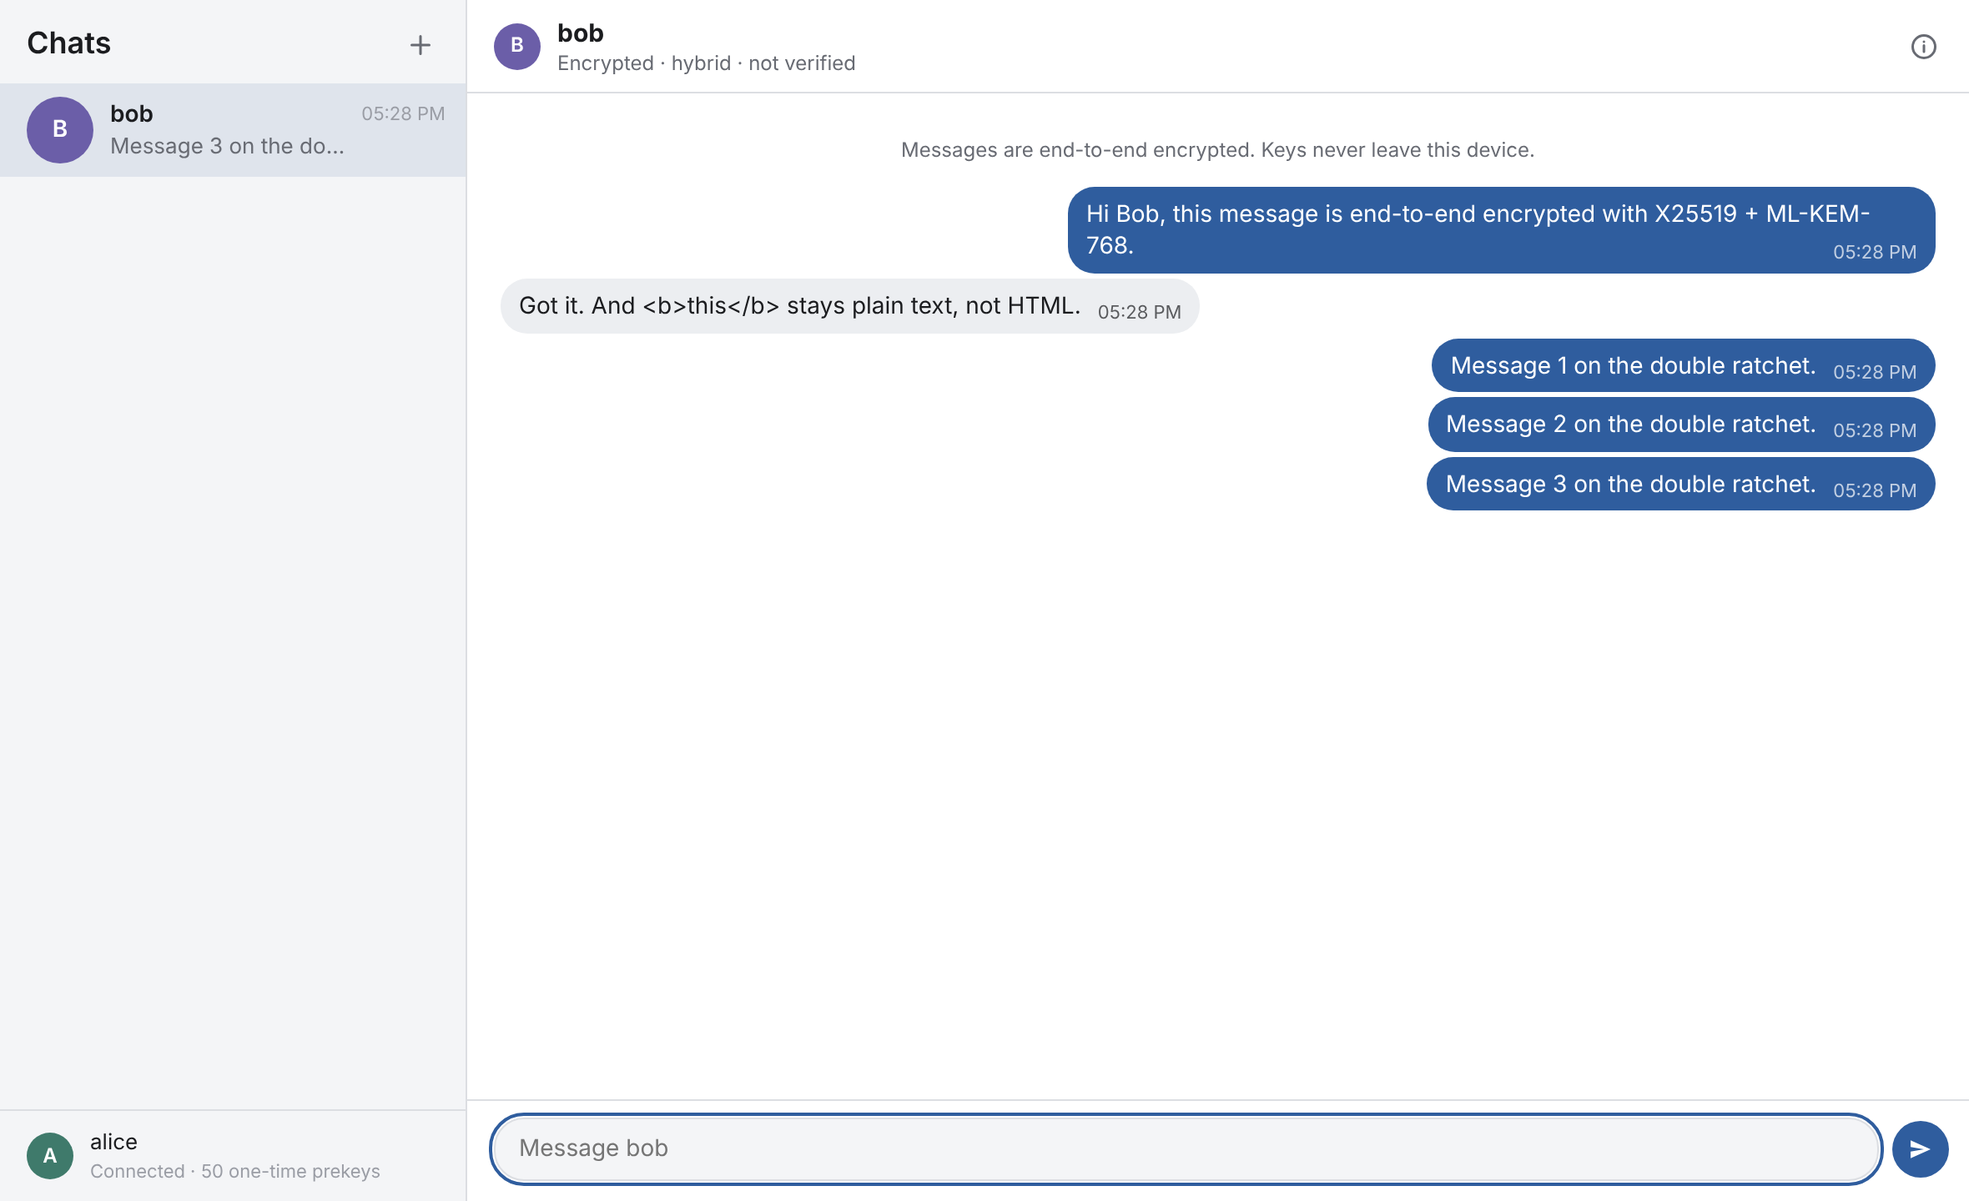
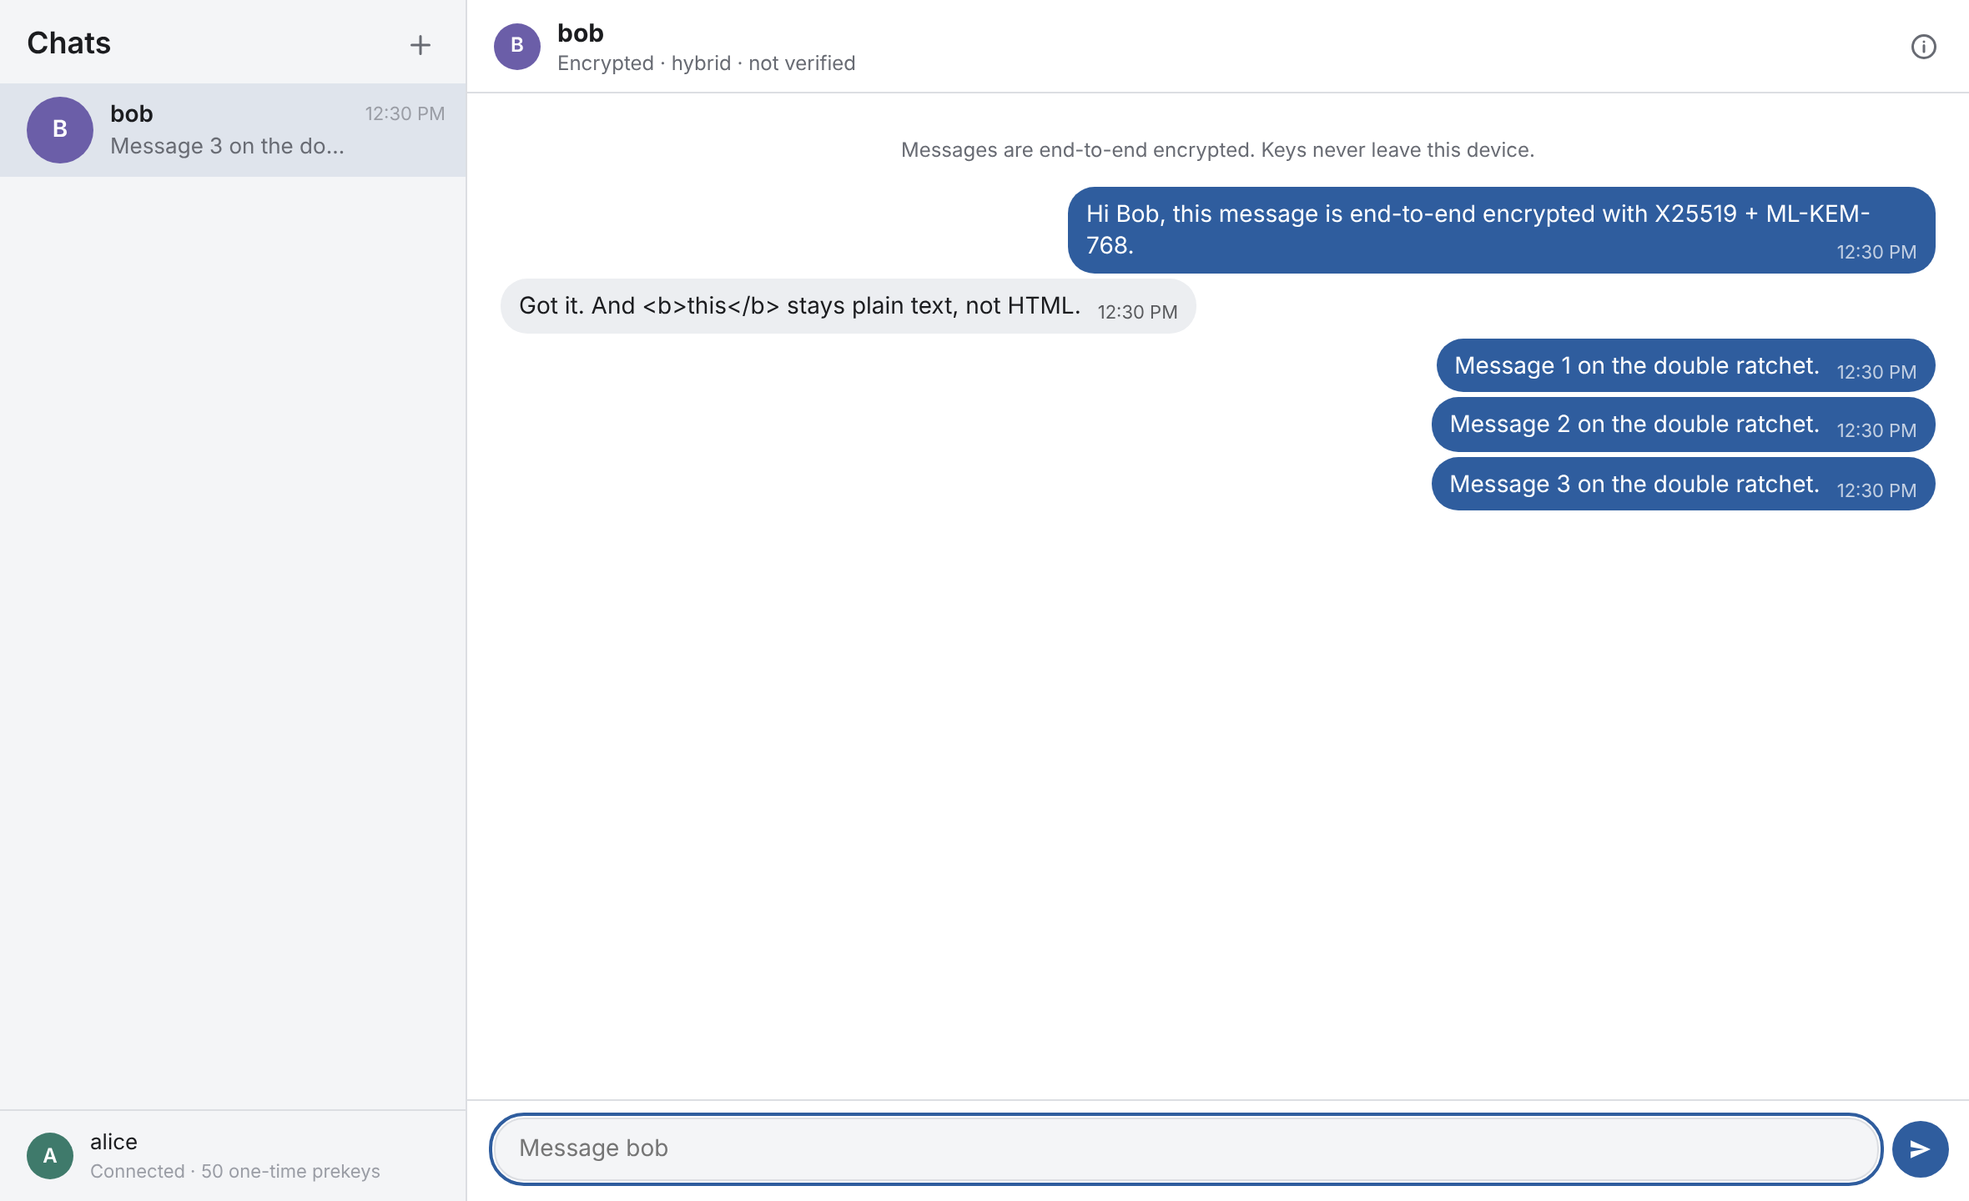
docs(thesis): add viva preparation, results summary and progress log for M2-M12
Claude-Session: https://claude.ai/code/session_013bWKDUVQwc6bXjy143xWaM

diff --git a/docs/thesis-notes/viva-prep.md b/docs/thesis-notes/viva-prep.md
@@ -1,0 +1,185 @@
+# Viva preparation: questions and model answers
+
+> Notes for the student. Read each answer, check it against the evidence named, and say it in your
+> own words. Examiners probe *why*; every answer below says why and where the evidence is.
+
+## A. Motivation and design
+
+**1. Why hybrid and not ML-KEM alone?**
+ML-KEM is young; a classical attack on it (or an implementation bug) is possible. X25519 is well
+studied but falls to a quantum computer. Feeding both secrets into one HKDF means an attacker must
+break both. ProVerif proves secrecy with X25519 broken *and* with ML-KEM broken (`formal/RESULTS.md`).
+
+**2. Why sign with both Ed25519 and ML-DSA-65?**
+So that a *future active* quantum attacker cannot forge prekeys. PQXDH signs prekeys with
+Ed25519 only, so it protects confidentiality against "harvest now, decrypt later" but not
+authentication against an active quantum adversary. Requiring both signatures means forging needs
+both schemes broken (SR-5, `tests/negative/test_bundle.py`).
+
+**3. Why ML-KEM-768 / ML-DSA-65 and not 512/44 or 1024/87?**
+Category 3 (≈ AES-192) is the level Signal's PQXDH and hybrid TLS deployments use; it balances
+margin against size. The benchmarks show size, not CPU, is the cost, so going to 1024/87 would
+mostly add bandwidth.
+
+**4. What exactly does the relay learn?**
+Usernames, public keys, and for each queued message: sender, recipient, time and padded size. No
+content, no private keys (forensics: 0 hits for 20 secrets in 4 encodings, with positive controls).
+That metadata leak is accepted risk T-15.
+
+**5. Why is the relay "untrusted" and what does that change in the design?**
+Everything the relay hands out is verified by the client (signatures, expiry, identity pinning);
+everything it stores is public or ciphertext; it authenticates users by signatures, not passwords.
+A relay compromise therefore exposes metadata, not messages (IR playbook, `docs/forensics.md`).
+
+## B. Handshake
+
+**6. Walk me through the key schedule.**
+Four X25519 DH values and the ML-KEM shared secret, prefixed by 32 × 0xFF, go into HKDF-SHA256 with a
+mode-specific label → SK. SK is split with HKDF into a one-time first-message key and the initial root
+key. Figure: `docs/figures/key-schedule.png`.
+
+**7. Why the 0xFF prefix F?**
+Copied from X3DH/PQXDH: it gives domain separation from other uses of the curve and keeps the
+construction aligned with the analysed Signal design.
+
+**8. What is the prekey binding (PB) and why did you add it?**
+A SHA-256 hash of the exact prekey public keys used, placed in the AEAD associated data (SR-37). It
+binds the session to those keys, following the key-binding concerns raised in the PQXDH analysis by
+Bhargavan et al. Test: redirecting the KEM prekey id to another valid key of Bob fails.
+
+**9. ML-KEM decapsulation never fails. Is that a problem?**
+No, it is a feature (implicit rejection, FIPS 203): a tampered ciphertext gives a random secret,
+and the AEAD then fails. It means the KEM ciphertext must be authenticated, which it is (header in
+AD). Test: `test_mlkem768_implicit_rejection_on_tampered_ciphertext`; NIST vectors include invalid
+ciphertexts.
+
+**10. How do you stop downgrade attacks?**
+Mode and algorithm suite are in the header, the header is in the AEAD AD, the suite must match the
+mode, and the default policy accepts hybrid only. A relay that strips ML-KEM prekeys makes the client
+refuse (`attacks/downgrade.py`: 5/5 blocked; ProVerif: classical falls to HNDL).
+
+**11. Replays?**
+One-time prekeys are deleted after successful authentication (not before, or forged messages could
+burn them); a replay cache covers last-resort prekeys; the ratchet deletes message keys
+(`attacks/replay.py`).
+
+## C. Formal verification
+
+**12. What does ProVerif prove and what does it not?**
+Symbolic (Dolev-Yao) model with perfect primitives, unbounded sessions: secrecy, agreement,
+forward secrecy, hybrid secrecy, HNDL. It does not prove computational security bounds, side
+channels, or the implementation's correctness — those are covered by tests, vectors and fuzzing.
+
+**13. Your authentication query fails when X25519 is broken. Is the protocol broken?**
+Not for confidentiality — secrecy still holds. It shows that Bob authenticates Alice through
+`DH(IKdh_A, SPK_B)` only; with X25519 broken during the session, an attacker can impersonate Alice.
+PQXDH has the same property. Fix: an ML-DSA transcript signature by Alice, which costs deniability.
+I predicted this before writing the model, which shows the model tests something real.
+
+**14. Why is your agreement query non-injective?**
+The injective version did not terminate within 40 minutes. Injectivity (no replay) is enforced by
+one-time prekeys and the replay cache, which are tested. I state this openly in `formal/RESULTS.md`.
+
+**15. Why include queries that you *expect* to fail?**
+Sanity: if "everything broken" or "classical vs. HNDL" were proved secure, the model would be
+vacuous. Expected attacks show the attacker is strong enough.
+
+## D. Ratchet
+
+**16. Why a post-quantum ratchet if the handshake is already hybrid?**
+Every key descends from the hybrid root key, so HNDL alone is already prevented. The PQ ratchet is
+for *post-compromise security* against a quantum attacker: after a device theft, new DH keys do not
+heal the session because a quantum attacker computes them; only a fresh ML-KEM secret does.
+
+**17. Show me that.**
+`tests/unit/test_ratchet_pcs.py`: a classical attacker with the stolen state loses access after 2
+rounds whatever K is; a quantum attacker keeps access for K/2 rounds (2, 4, 6 for K = 4, 8, 12).
+Bounded ProVerif model: the message after the KEM step is proved secret, earlier ones leak.
+
+**18. Why K = 4?**
+Benchmark `k_tradeoff`: healing cannot be faster than 2 rounds (the next sending key exists before
+the theft), so K = 2 only costs 37 % more bandwidth. Above 4, each doubling halves the overhead and
+doubles the window.
+
+**19. How does yours differ from Signal's SPQR?**
+SPQR spreads KEM keys and ciphertexts over many messages with erasure coding (the ML-KEM Braid), so
+each message carries a small share and losses are tolerated. Ours sends them whole in every message
+of a re-key chain: simpler to analyse, but ≈ 2.3 KB on those messages.
+
+**20. Why does decryption work on a copy of the state?**
+So a forged or corrupted message cannot desynchronise the session: state is committed only after the
+AEAD verifies. Property test: 200 random bit flips are rejected and the original still decrypts.
+
+## E. Implementation and testing
+
+**21. How do you know the crypto libraries are used correctly?**
+Thin wrappers with length checks, 100 % coverage, RFC vectors for X25519/HKDF/HMAC/AES-GCM/Ed25519,
+and 85 NIST ACVP vectors for ML-KEM-768 and ML-DSA-65 (including invalid inputs that must fail).
+
+**22. Python is not constant-time. Is that fatal?**
+All secret-dependent arithmetic runs in liboqs and OpenSSL; Python only moves bytes and compares
+secrets with `hmac.compare_digest` (enforced by a Semgrep rule). Recorded as a limitation (SR-35).
+
+**23. How do you handle secrets in memory?**
+Best effort: `bytearray` buffers overwritten after use (tested). Python can copy immutable `bytes`
+anywhere; full erasure is impossible in Python — documented (T-27).
+
+**24. What did testing actually find?**
+Real bugs, each fixed with a regression test: rate limit disconnecting clients (1,000-message test),
+per-target limit not wired in (exhaustion test), duplicate handshake on first reply (UI screenshot),
+passphrase in URL and re-unlock (ZAP), a `wire.build` argument collision (mypy), a resource leak on
+failed login (pytest warnings).
+
+**25. How is the threat model kept in sync with the code?**
+`tests/unit/test_threat_model_traceability.py` parses the tables: every requirement must trace to a
+threat, have a planned test, and — when marked Done — cite evidence files that exist.
+
+## F. Network, attacks, forensics
+
+**26. What do the packet captures show?**
+TLS 1.3, AES-256-GCM, key exchange X25519MLKEM768 (hybrid PQ TLS by default); zero plaintext or
+usernames. Without TLS, content is still protected but the sender's name is visible — so TLS is
+needed for metadata, not for content.
+
+**27. Why pad messages?**
+Without padding the ciphertext length reveals the plaintext length. Buckets 256/1,024/4,096/… hide
+it within a bucket; the cost shows in the benchmarks.
+
+**28. Your highest CVSS score is 9.1 Critical. Why is it accepted?**
+F-01, first-contact impersonation by the relay. No cryptography can prove a key belongs to a person
+without an out-of-band check. Safety numbers make it detectable; pinning blocks it after first
+contact (both demonstrated). Same as Signal and WhatsApp.
+
+**29. What did forensics teach you about methodology?**
+Two things: (1) without positive controls "0 hits" proves nothing — the control exposed that SQLite
+splits long values over overflow pages; (2) PQ secret keys contain their public keys (FIPS 203), so a
+naive search raises false alarms. Both fixed and tested.
+
+**30. Why did you not use Atheris?**
+No wheel for Python 3.12 and the source build failed here; CLAUDE.md allows Hypothesis instead.
+200,000 mutated and random inputs over 10 parsers, zero unexpected exceptions.
+
+## G. Governance and results
+
+**31. When must X25519 and Ed25519 go?**
+NIST IR 8547 (draft dates): quantum-vulnerable algorithms deprecated after 2030 and disallowed after
+2035. PQ-Chat never relies on them alone; the transition plan in `docs/compliance.md` removes
+classical mode by 2030 and the classical components by 2035.
+
+**32. What is a CBOM and why produce one?**
+A machine-readable inventory of cryptographic assets (CycloneDX 1.6). It makes the 2035 work list
+explicit: every component with `nistQuantumSecurityLevel: 0` must be removed or wrapped by then.
+
+**33. What is the cost of post-quantum security in one sentence?**
+About 0.3 ms per handshake in CPU time but 67× the bundle payload and ≈ 4.5× the average message size
+at K = 4 — post-quantum messaging is a bandwidth problem, not a CPU problem.
+
+**34. What would you do with three more months?**
+ML-DSA transcript signature for initiator authentication (F-02); erasure-coded re-keying like SPQR;
+sealed sender to reduce relay metadata; key transparency to detect identity substitution; a
+computational proof (e.g. CryptoVerif) for the hybrid combiner.
+
+**35. How did you use AI in this project?**
+Disclose as the university requires: code, tests, models and drafts were produced with Claude Code
+under my direction; I set requirements, approved designs, reviewed and ran everything, and the thesis
+text is my own. The commit history records every step.

diff --git a/docs/PROGRESS.md b/docs/PROGRESS.md
@@ -1,8 +1,92 @@
 # Progress log
 
+> 2026-11-06: the student asked for M2–M12 "in one shot", approved the six proposed requirements
+> (ADR-002) and chose "no stops, review after". M2–M12 below were therefore built without the usual
+> per-milestone approval; each still has its own design note, tests, scans and commits for review.
+
+## 2026-11-14 — M12 Thesis support
+
+**Done:** figures (`docs/figures/`: architecture, key schedule, handshake sequence; generator
+`scripts/make_figures.py`), demo script `scripts/demo.sh` (incl. automated browser run), rewritten
+`README.md`, viva preparation (`docs/thesis-notes/viva-prep.md`, 35 Q&A), results summary
+(`docs/thesis-notes/results-summary.md`), threat model: all 37 requirements Done with evidence, and a
+new traceability check that cited evidence files exist; ADR-003; protocol spec completed.
+**Results:** 314 tests pass, coverage of crypto/ + protocol/ 98 %; demo + browser E2E pass; fresh-clone check: see below.
+**Open:** Docker build stage verified in CI only (sandbox has no Debian HTTP mirror; a sandbox-only
+build wrapper was used locally).
+
+## 2026-11-14 — M11 Benchmarks
+
+**Done:** `bench/run_bench.py` (1,000 runs × 3 modes; sizes; per-message; re-key cost; K trade-off with
+*measured* quantum healing; memory); pandas/matplotlib added as pinned `bench` extra.
+**Results:** handshake median classical 1.27 ms, hybrid 1.57 ms, pq-only 0.90 ms; bundle payload
+320 B vs. 21.3 KB; mean message 1,458 B at K = 4 (plain 323 B). K = 4 is the sweet spot.
+
+## 2026-11-14 — M10 Governance
+
+**Done:** `docs/compliance.md` (NIST IR 8547 per-algorithm table and transition plan, CSF 2.0 mapping,
+data minimisation), `docs/cbom.json` (CycloneDX 1.6, 27 components, schema-validated, generated by
+`scripts/make_cbom.py`).
+**Open:** IR 8547 dates taken from the 2024 draft — student to check against the final text.
+
+## 2026-11-14 — M9 Forensics
+
+**Done:** `forensics/image_and_search.py` (hash-verified imaging, fragment search in 4 encodings,
+positive controls, read-only SQLite analysis), `docs/forensics.md` with IR playbook.
+**Results:** 20 secrets × 4 encodings, 0 hits; 2/2 positive controls found; deleted ciphertexts gone.
+Two methodology bugs found by the controls and fixed (SQLite overflow pages; PQ secret keys embed
+their public keys).
+
+## 2026-11-09…14 — M8 Attack suite
+
+**Done:** mitmproxy prekey/identity swap, replay, downgrade, Hypothesis fuzzing (200,000 inputs),
+key-compromise demo, OWASP ZAP baseline + active API scan, `docs/pentest-report.md` (CVSS v4.0).
+**Results:** 10 findings — 7 fixed and retested, F-01 (9.1, first-contact impersonation) and F-02 (8.2,
+initiator authentication classical) accepted as design limits, F-10 metadata accepted. CI actions
+pinned by SHA.
+
+## 2026-11-09 — M7 Network hardening
+
+**Done:** TLS 1.3 only (relay + client verification), padding buckets, rate limits, per-target
+prekey-exhaustion budget, demo CA, captures, metadata analysis (`docs/notes/m7-network.md`).
+**Results:** captures show TLS 1.3 + X25519MLKEM768 and no plaintext; two rate-limit bugs found by tests
+and fixed.
+
+## 2026-11-09 — M6 Relay, key store, web UI
+
+**Done:** relay (WebSocket, dual-signature login, SQLite, retention), encrypted key store + history,
+TOFU contacts, local UI with token/Host/Origin/CSP, Docker Compose with two clients, ASVS 5.0 L2
+checklist. **Results:** two users chat in the browser via Compose (`evidence/m6/`); ADR-003 bug found
+from the screenshot and fixed.
+
+## 2026-11-09 — M5 Double ratchet + PQ re-key
+
+**Done:** design note, `ratchet.py`, `pq_ratchet.py`, `session.py`, bounded ProVerif model.
+**Results:** out-of-order, FS, classical and quantum PCS tests pass; quantum attacker keeps access for
+K/2 rounds (measured). One wrong test expectation corrected and documented.
+
+## 2026-11-09 — M4 ProVerif
+
+**Done:** `formal/handshake.pv` (9 attacker scenarios), `formal/run.sh`, `formal/RESULTS.md`, CI job.
+**Results:** all 14 results as predicted; hybrid secrecy with either primitive broken; classical falls
+to HNDL; initiator authentication fails with X25519 broken (predicted). Agreement non-injective (the
+injective query did not terminate).
+
+## 2026-11-09 — M3 Hybrid handshake
+
+**Done:** encoding, modes/policy, dual-signed bundles with expiry, handshake with prekey binding and
+replay cache, safety numbers, `docs/protocol-spec.md`, ADR-002. **Results:** SK equal in all modes;
+all negative and 300-case bit-flip tests pass; coverage `protocol/` ≥ 97 %.
+
+## 2026-11-09 — M2 Crypto wrappers
+
+**Done:** wrappers for ML-KEM, ML-DSA, X25519, Ed25519, HKDF/HMAC/SHA-256, AES-GCM, Argon2id key
+store; label registry; zeroisation; redacting logger. **Results:** RFC vectors + 85 NIST ACVP vectors
+pass; `crypto/` 100 % coverage.
+
 ## 2026-11-04 — M1 Threat model
 
-**Status:** complete, awaiting approval.
+**Status:** approved 2026-11-06 together with all six proposed requirements (ADR-002).
 
 **Done**
 - `docs/threat-model.md`: 9 assets, 7 assumptions, Mermaid data-flow diagram (7 elements, 7 flows,

diff --git a/docs/thesis-notes/results-summary.md b/docs/thesis-notes/results-summary.md
@@ -1,0 +1,38 @@
+# Results summary for the thesis (notes to rewrite in your own words)
+
+One page per methodology phase: the claim, the number, where the evidence is.
+
+| Phase / chapter | Key result | Number | Evidence |
+|---|---|---|---|
+| 2 Risk management | Threat model drives everything | 36 threats, 37 requirements, all Done with cited evidence, machine-checked | `docs/threat-model.md`, `tests/unit/test_threat_model_traceability.py` |
+| 3 Applied crypto | Wrappers are correct | RFC vectors + 85 NIST ACVP vectors; 100 % coverage of `crypto/` | `tests/vectors/` |
+| 3 Applied crypto | Handshake agrees in every mode, rejects tampering | 300 random bit flips rejected; SK depends on every input | `tests/property/test_bitflip.py`, `tests/unit/test_handshake.py` |
+| 4 Formal methods | Hybrid secrecy holds if either primitive is broken; classical falls to HNDL | 14 / 14 ProVerif results as predicted | `formal/RESULTS.md` |
+| 4 Formal methods | Limitation: initiator authentication is classical | attack found with X25519/Ed25519 broken | same, pentest F-02 |
+| 3–4 Ratchet | Only ML-KEM re-keying heals against a quantum thief | quantum attacker reads K/2 rounds, classical 2 | `tests/unit/test_ratchet_pcs.py`, `formal/ratchet_bounded.pv` |
+| 5 Secure SDLC | Working system, two users in the browser | Compose + browser E2E; ASVS 5.0 L2 checklist | `evidence/m6/`, `docs/asvs-checklist.md` |
+| 6 Network security | No plaintext on the wire; transport is hybrid PQ | TLS 1.3, X25519MLKEM768, 0 plaintext hits | `evidence/m7/`, `docs/notes/m7-network.md` |
+| 6 Network security | What metadata remains | sender/recipient/timing at the relay | same, §3 |
+| 7 Pentest | Attacks resisted and findings fixed | 10 findings, 7 fixed + retested, 2 design limits; 200,000 fuzz inputs, 0 crashes; ZAP 0 FAIL | `docs/pentest-report.md` |
+| 8 Forensics | Seized relay/client data reveal no secrets | 20 secrets × 4 encodings, 0 hits, 2/2 positive controls | `docs/forensics.md` |
+| 9 GRC | Transition plan to 2035; CBOM | 27 CBOM components; 4 quantum-vulnerable components, none used alone | `docs/compliance.md`, `docs/cbom.json` |
+| 10 Capstone | PQ costs bandwidth, not CPU | +0.3 ms per handshake; 67× bundle payload; 4.5× mean message at K = 4 | `docs/notes/m11-benchmarks.md` |
+
+## Bugs and lessons worth a discussion section
+
+Each was found by a test, a tool or a review, then fixed with a regression test. Discussing them
+shows the method worked:
+
+1. A wrong post-compromise expectation in my own test (the stolen state already contains the next
+   sending key) — corrected, made stricter.
+2. The quantum healing test first could not distinguish DH healing from ML-KEM healing (K = 4 makes
+   them coincide) — fixed by testing K = 8 and 12; became the K trade-off result.
+3. Rate limiting disconnected normal users; per-target limit not wired in — found by integration tests.
+4. Bob's first reply silently started a second handshake — found by *looking at a screenshot*
+   (49 instead of 50 prekeys) → ADR-003.
+5. ZAP found a method-less form and a re-unlock problem.
+6. Forensics: a "0 hits" result was partly a false negative (SQLite overflow pages) and a later
+   "hit" was a false positive (ML-KEM secret keys embed their public key) — both caught by positive
+   controls and by reading FIPS 203.
+7. ProVerif: the first model did not terminate; restructuring (fixed peers) and a lighter agreement
+   query made it terminate; injectivity is argued from tests instead.
